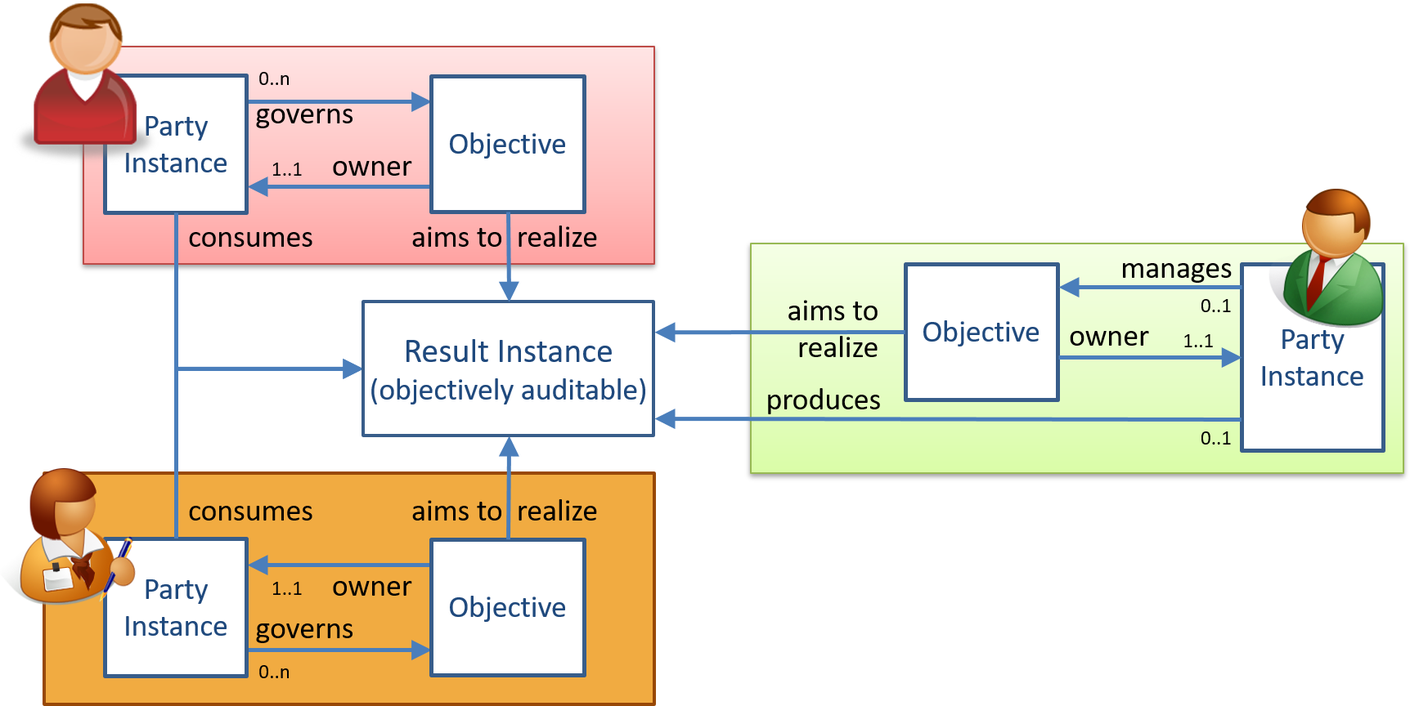
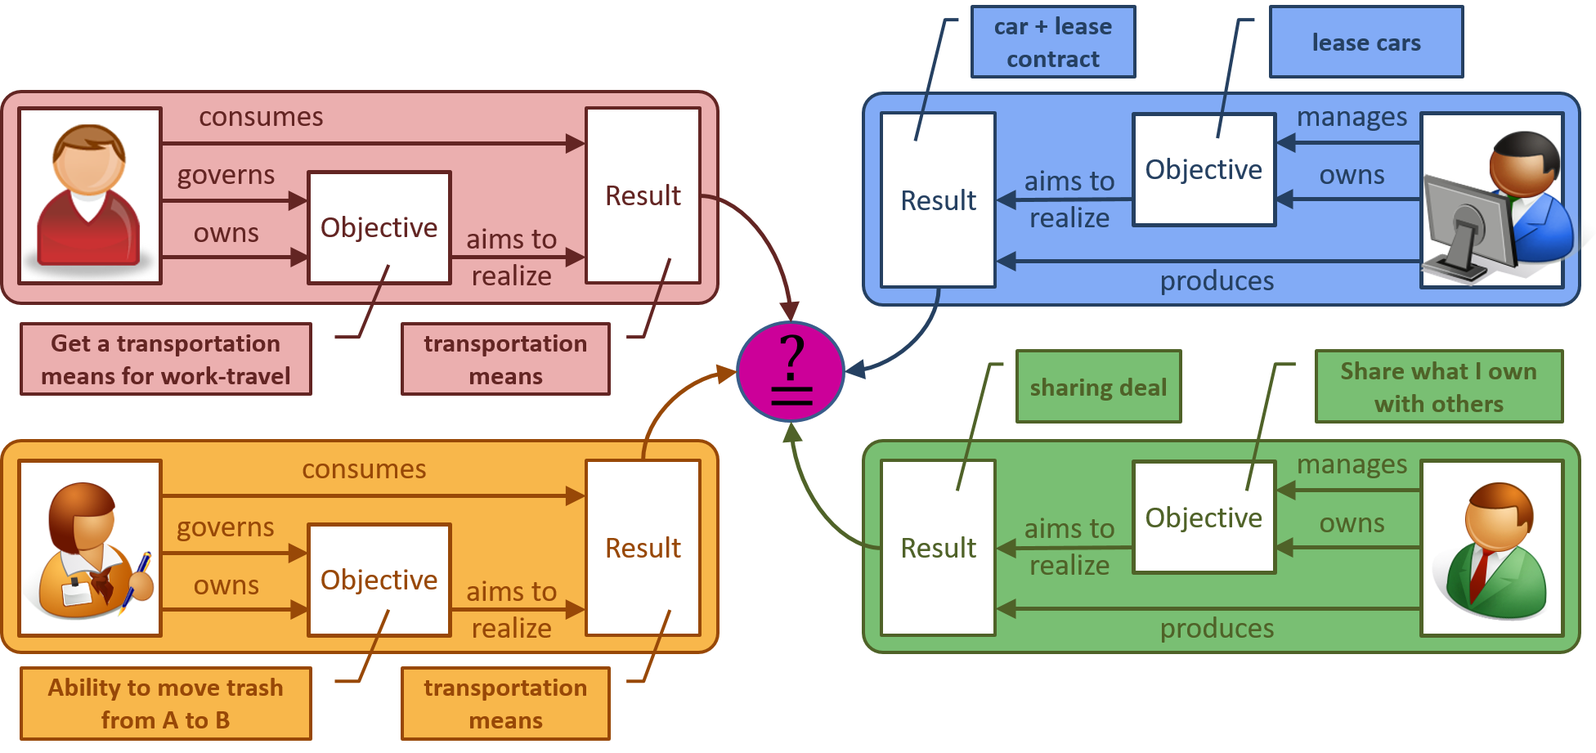
Updates on governance (minor work on terminologies)

diff --git a/docusaurus.config.js b/docusaurus.config.js
@@ -3,7 +3,7 @@ module.exports = {
   title: 'eSSIF-Lab',
   tagline: 'eSSIF-Lab Framework',
   url: 'https://essif-lab.github.io',
-  baseUrl: '/framework/',
+  baseUrl: process.env.STAGING && process.env.STAGING === 'true' ? '/framework/' : '/',
   favicon: 'images/favicon.ico',
   organizationName: 'essif-lab',
   projectName: 'framework',

diff --git a/docs/terms/pattern-governance-and-management.md b/docs/terms/pattern-governance-and-management.md
@@ -3,7 +3,7 @@ id: pattern-governance-and-management
 title: "Governance and Management"
 scopeid: essifLab
 type: pattern
-typeid: manage-and-govern
+typeid: governance-and-management
 stage: draft
 hoverText: "The Governance and Management pattern explains how Parties organize that their Objectives are realized, either by doing the associated work themselves, or by arranging for other Parties to do that."
 date: 20210830
@@ -12,11 +12,11 @@ date: 20210830
 import useBaseUrl from '@docusaurus/useBaseUrl'
 
 ### Purpose
-The **Governance and Management pattern** captures the concepts and relations that explain how %%parties|party%% organize that %%their|owner%% %%objectives|objective%% are realized, either by doing the associated work themselves, or by arranging for other %%parties|party%% to do that. The contribution of this pattern is to show how this is done, based on the idea that every %%objective|objective%% has a single %%party|party%% that %%owns|owner%% the %%objective|objective%%.
+The **Governance and Management pattern** captures the concepts and relations that explain how %%parties|party%% organize that %%their|owner%% %%objectives|objective%% are realized, either by doing the associated work themselves (%%management|management%%), or by arranging for other %%parties|party%% to do that. The contribution of this pattern is to show how this is done, based on the idea that every %%objective|objective%% has a single %%party|party%% that %%owns|owner%% the %%objective|objective%%.
 
 ### Introduction
 
-Whether or not an %%objective|objective%% is realized can be seen by the status of the associated results, as is explained [there](objective). The following figure is a recap of the %%objective|objective%%-concept (using the usual [notations and conventions](../notations-and-conventions#pattern-diagram-notations)):
+Whether or not an %%objective|objective%% is realized can be seen by the status of the associated results, as is explained %%there|objective%%. The following figure is a recap of the %%objective|objective%%-concept (using the usual [notations and conventions](../notations-and-conventions#pattern-diagram-notations)):
 
 <img
   alt="A Party's Objectives"
@@ -25,33 +25,39 @@ Whether or not an %%objective|objective%% is realized can be seen by the status 
 
 *Figure 1. Parties and their %%objectives|objective%%.*
 
-Note that there are two 'sides' to each objective (and their results):
+The core property of this model is that every %%objective|objective%% has precisely one %%owner|owner%%, which is the %%party|party%% that pursues the realization of the assocated results, from one (or both) of the two following perspectives:
 
-1. the _**production**_ side. Here, it is important that the budgets and other resources are planned, and made available _to produce the results_. This includes the specification of timelines (deadlines) for the production, as well as the properties and other characteristics (security, quality, sustainability, etc.) of what is actually being produced/maintained. It also deals with making the tools and %%policies|policy%% (e.g. working instructions) available for doing all this. We will use the term 'management' to refer to these %%activities|action%%, and the term '%%manager|management%%' to refer to the role of a %%party|party%% that performs such activities. Hence, developing performance indicators, i.e. gauges that measure how well the resources are spent in this production/maintenancd work are also part of this.
+1. the _**production**_, _**supply**_, or _**%%management|management%%**_ perspective. This is the perspective in which the %%owner|owner%% of the %%objective|objective%% will itself be %%managing|management%% the creation (or maintenance) of the results associated with the %%objective|objective%%. This entails the creation of (product) specifictions and %%working instructions|policy%%, organizing that budgets and other production resources become available and are planned, and everything else to ensure the results will be ready to be provided to parties that will actually use them. This may include developing performance indicators, i.e. gauges that measure how well the resources are spent in this production/maintenance work, which may help managers to do their work. We will use the term '%%management|management%%' to refer to these %%activities|action%%, and the term '%%manager|management%%' to refer to the role of a %%party|party%% that performs such activities.
 
-2. the _**consumption**_ side. Here, it is important that the budgets and other resources are planned, and made available _to (obtain and to) actually use the results_. This includes the specification of timelines (deadlines) for the results to become available, as well as the properties and other characteristics (security, quality, sustainability, etc.) that results must have in order to make them effective ('fit for purpose' - fit to be used as intended by the consuming %%party|party%%). We will use the term '%%governance|governance%%' to refer to these %%activities|action%%, and the term '%%governor|governance%%' to refer to the role of a %%party|party%% that performs such activities. Hence, developing effectiveness indicators, i.e. gauges that measure how 'fit' the results are to be used/consumed for the intended purposes, are also part of this %%governance|governance%%.
+2. the _**consumption**_, _**demand**_, or _**%%governance|governance%%**_ perspective. This is the perspective in which the %%owner|owner%% of the %%objective|objective%% wants to actually use the results associated with the %%objective|objective%%. This entails specifying the kinds of results as well as criteria that such results must satisfy (or are nice to have satisfied) in order to be fit for the purpose(s) that the %%owner|owner%% wants to use them for. Such criteria may pertain to timelines (deadlines), security, quality, sustainability, etc. This may include developing 'effectiveness indicators', i.e. gauges that measure how 'fit' the results are to be used/consumed for the intended purposes, are also part of this %%governance|governance%%. We will use the term '%%governance|governance%%' to refer to these %%activities|action%%, and the term '%%governor|governance%%' to refer to the role of a %%party|party%% that performs such activities.
 
-A %%party|party%% that %%owns|owner%% an %%objective|objective%% gets to decide whether he will do the production side, the consumption side, or both. The easiest is if the party chooses to do both, thus not only creating/maintaining specific results, but also actually using them. What makes this easy is that coordination between 'supply' (the production side) and 'demand' (the consumption side) is done within one %%knowledge|knowledge%%, i.e. the %%knowledge|knowledge%% of the %%party|party%% that %%owns|owner%% the %%objective|objective%%. Coordination between budgets, timelines, the characteristics of the results, etc., are much easier when all this gets to be decided by a single %%party|party%%.
+### Governance and Management
 
-### Managing and Governing
-
-The following figure illustrates the situation where this is not the case (using the usual [notations and conventions](../notations-and-conventions#pattern-diagram-notations)):
+When a %%party|party%% both %%manages|management%% and %%governs|governance%% an %%objective|objective%%, it is in full control of the production and the usability of the associated results. This is easy to do when compared to the situation in which a %%party|party%% either %%manages|management%% or %%governs|governance%% its %%objective|objective%%, but not both. This governance and management pattern focuses on the latter situation. The following figure illustrates this situation:
 
 <img
-  alt="managing and governing"
+  alt="governance and management"
   src={useBaseUrl('images/essif-lab-governance-and-management.png')}
 />
 
-*Figure 1. Managing and governing objectives.*
+*Figure 1. Governing and Managing objectives.*
 
-When a %%party|party%% decides to outsource the production side, he must then find another %%party|party%% to do that for him. We say that the %%objective|objective%%, the results of which are to be realized by that other party, is an 'expectation' of the first %%party|party%%. So an 'expectation' is an %%objective|objective%% that is %%owned|owned%% by a %%party|party%% that does not itself realizes the associated results. Assuming that every %%objective|objective%% is to be meaningful to its %%owner|owner%%, we conclude that this %%party|party%% is (one of) the consumer(s) of these results, and hence will %%govern|governance%% this/its %%objective|objective%%, but not manage it. This %%party|party%% may find it useful to communicate its needs (e.g. the timelines/deadlines, the characteristics that makes the results 'fit-for-purpose', etc.) to the %%party|party%% that it requests to produce these results, as this makes it easier for that party to do so.
+The figure shows four %%parties|party%%, distinguished by color - let's call them Red, Yellow, Blue and Green. We assume that each party %%owns|owner%% multiple %%objectives|objective%%, but in the figure we only show a single one, each of which with a description that %%identifies|identify%% that %%objective|objective%% from the set of %%objectives|objective%% of each %%party|party%%. The figure also shows one of the results associated with each of these %%objectives|objective%%, again phrased such that the %%objective|objective%% %%owner|owner%% knows what this really %%means|semantics%%. So, Red %%governs|governance%% an %%objective|objective%% that it describes as "Get a transportation means for work-travel". The associated result "transportation means" then doesn't come as a surprise.
 
-If such a %%party|party%% accepts the request (to realize some results), it will have created an %%objective|objective%% (that it %%owns|owner%% itself), that is associated with the results that it is going to produce, and the associated specification of timelines, characteristics etc. A %%party|party%% may also decide to realize some results without any explicit request - and even if it does not intend to use/consume them itself. We will refer to an %%objective|objective%%, the results of which are realized by its %%owner|owner%%, as an 'obligation' of that %%owner|owner%%.
+Red, who %%governs|governance%% its %%objective|objective%% can realize the result by 'scouring the market' to find a %%party|party%% that is capable and willing to provide things that Red qualifies as "transportation means" and that hence constitute the result it wants. Note that Yellow also needs to realize a result "transportation means", in order to realize her objective "Ability to move trash from A to B". Both Blue and Green produce results, i.e. a "car + lease contract" and a "sharing deal" respectively.
 
-The main contribution of this pattern lies in
-- the observation that in any case where the consumer/user of a result (product/service) and the producer/maintainer thereof are different %%parties|party%%, each of them have their %%own|owner%% %%objective|objective%% that is associated with a result (specification), and
-- the consequence thereof that, since such %%objectives|objective%% are part of a different %%knowledge|knowledge%%, one must not assume that they are the same.
+The essence of this figure is to show that %%parties|party%% that consume a result and %%parties|party%% that produce a result have a matching issue.
 
-As a consequence, %%parties|party%% that %%govern|governance%% an %%objective|objective%% of theirs but do not manage it, should ensure that the results that the producer is realizing are in fact fit for purpose. Conversely, %%parties|party%% that manage an %%objective|objective%% of theirs but do not %%govern|governance%% it, should ensure they know which other %%parties|party%% will use the results, and what makes them fit for (their) purposes.
+From the perspective of the consuming party, the result produced by a producing party must qualify as a result that it needs. %%Governing|governance%% an %%objective|objective%% is basically specifying a result in such a way that it is fit for purpose, i.e. realizes the objective, AND finding a result that is produced byt some %%party|party%% that qualifies as such, and that it can obtain. For Red (and Yellow) this means that they need to determine whether or not the results that Blue and Green produce qualify, and engage with either if that is the case. If not, they must either find other producers whose results do match, or they have to find an alternative result for realizing their objectives.
 
-The processes for governing and/or managing of objectives can be controlled by deploying a suitable %%control process|control-process%%.
+From the perspective of the producing party, producing a result is only meaningful if it is actually used. %%Managing|management%% an %%objective|objective%% is basically producing a result in such a way that there is (at least) one party that needs it. This is not only about producing things, but also about finding out what makes the produced result fit for the (various) purposes of (potential) consuming parties.
+
+### Matching
+
+Matching (of (the results of) %%objectives|objective%%) is the process in which a producer and consumer interact to establish whether or not a produced result (of the producing party) qualifies as a consumeable result (of the consuming party).
+
+This matching process can take many different forms. One is that a producing party advertises the kinds of results it produces in an attempt to attract consuming parties that qualify them as something they can use/consume. Another one is that a consuming party can tender for a result it needs, in an attempt to attract producing parties to produce such a result. And then there is the ad-hoc way, where two parties meet and find out by chance that one produces results that the other needs.
+
+The matching process can be a one-off, which is the case e.g. when buying a product. However, it can also be a continous process, e.g., in the case where a service is purchased. In the latter case, matching may include monitoring the service levels that the service provider realizes to ensure the service still qualifies as a result that realizes the consumers' objective.
+
+Matching is a process that can be readily observed in practice.

diff --git a/docs/terms/pattern-terminology.md b/docs/terms/pattern-terminology.md
@@ -11,8 +11,41 @@ date: 20210601
 
 import useBaseUrl from '@docusaurus/useBaseUrl'
 
-:::info Editor's note
-This is work that is being envisaged.
-:::
-
+## Purpose
 The idea here is to describe how terms are scoped ('namespaces' is the term used by SW-engineers), how parties govern such scopes/namespaces, and that if you use criteria to define/specify terms, people can test if they have the same understanding of a term by making sure that everyone reaches the same conclusions as they evaluate such criteria in various relevant use-cases.
+
+The prime objective of working with a %%terminology|terminology%% is to enable individual members of a %%community|community%% to understand the words and phrases that are used by its members ***in the same, single meaning***. This is to say that ***the differences in the individual understandings of words or phrases by different members of the same %%community|community%% do not pose any problems as they collaborate to serve their shared interests***.
+
+This suggests that (members of) a %%community|community%% need the ability and means to (a) establish and maintain (i.e.: %%own|owner%%) their own %%terminology|terminology%%, and (b) to ensure it is fit for the purpose of eliminating such misunderstandings. More concretely, they need the ability and means to create, maintain and improve the %%definitions|definition%% that link %%terms|term%% with the %%concepts|concept%%/meanings that they agree are relevant for their collaboration, and perhaps also to document the ways of thinking (%%mental models|pattern%%) that are crucial to their work.
+
+Once a %%community|community%% has its %%terminology|terminology%% in place, may want to establish an associated  %%glossary|glossary%% that serves as the authoritive reference for the (crucial) %%terms|term%% used by its members. This %%glossary|glossary%% is also a valuable reference document for a non-community member, as it helps him/her to (better) understand the (verbal or written) communications authored by that %%community|community%%, i.e. it helps to 'map', or 'translate' the terms of that %%community|community%% to words or phrases that the person uses itself, which is prerequisite for effectively engaging with that %%community|community%%.
+
+The secondary objective of working with a %%terminology|terminology%% is to enable members of %%ecosystems|ecosystem%% to establish
+
+- a set of %%terms|term%% that have a 'good definition' (as defined at the end of [this document](https://www.researchgate.net/publication/352560909_on_terminology_and_the_resolution_of_related_issues), which basically means that ***two arbitrary people that use that definition stand a very good chance of having the same individual understanding of what is meant***.
+- a set of %%mental models|pattern%% that describe relations and constraints between sets of such terms, thus providing the bases for ***arbitrary sets of people to have the same understanding of specific ways of thinking about a set of concepts***.
+
+Such %%terminologies|terminology%% and %%mental models|pattern%% differ from those created for/by %%communities|community%% in the sense that it is basically just a repository of words and phrases that %%communities|community%% may adopt within their own %%scopes|scope%%. They have no other authority than what they can derive from being used in/by %%communities|community%%.
+
+The benefit of creating and maintaining such %%terminologies|terminology%% and %%mental models|pattern%% lies in the fact that they can be developed with less of a bias of developers than if they were developed in a %%community|community%% (that is there to serve its own interests). As such, they may play an important role as different %%communities|community%% seek to establish a languate for cooperating with one another.
+
+### Introduction
+
+This pattern has two basic parts:
+
+1. the %%management|management%%-related part. This part consists of a %%community|community%% that %%owns|owner%% its particular set of %%objectives|objective%% which exist for establishing cooperation between its members, and for which it needs to establish and maintain a %%terminology|terminology%%. 
+
+2. the terminology-related part. This is where %%concepts|concept%%, %%definitions|definition%%, %%terms|term%%, %%glossaries|glossary%% etc. live. This part is what one needs to create tools/support for managing and maintaining a %%terminology|terminology%%.
+
+
+### Formalized model
+Here is a visual representation of this pattern, using the following [notations and conventions](../notations-and-conventions#pattern-diagram-notations):
+
+<img
+  alt="Conceptual model of the 'Duties-and-rights' pattern"
+  src={useBaseUrl('images/patterns/pattern-duties-and-rights.png')}
+/>
+
+:::info Editor's note
+TNO to provide further introductorty texts
+:::

diff --git a/docs/essifLab-fw-bus-arch.md b/docs/essifLab-fw-bus-arch.md
@@ -263,7 +263,7 @@ In order to make the %%holder|holder%% component work, a %%holder policy|holder-
 
 The purpose of the %%data discloser|data-discloser%% component is to state the (various, sometimes intermediary) results of %%transactions|transaction%%, by collecting data from the Business Data Stores, and creating a set of (related) %%statements/claims|assertion%% that can subsequently be issued to other %%parties|party%%. A special kind of result is the (provisioning of) a %%credential|credential%% that its %%principal|principal%% already has created.
 
-Typically, and at any point in time, %%parties|party%% are capable of expressing %%statements|assertion%% about %%entities|entity%% that they know to exist. They could express %%statements|assertion%% about individuals, about themselves, the state of %%transactions|transaction%%, and so on. We will use the term '**%subject% (of a %%statement|assertion%% of a %%party|party%%)**' to refer to the %%entity|entity%% that this %%party|party%% knows to exist, and about whom/which the %%statement|assertion%% has been made.
+Typically, and at any point in time, %%parties|party%% are capable of expressing %%statements|assertion%% about %%entities|entity%% that they know to exist. They could express %%statements|assertion%% about individuals, about themselves, the state of %%transactions|transaction%%, and so on. We will use the term '**%%subject|subject%%% (of a %%statement|assertion%% of a %%party|party%%)**' to refer to the %%entity|entity%% that this %%party|party%% knows to exist, and about whom/which the %%statement|assertion%% has been made.
 
 We will use the term '**subject-id (of a %%statement|assertion%% of a %%party|party%%)**' to refer to the representation that this %%party|party%% has chosen to use for referring to the %%subject|subject%% in said %%statement|assertion%%. A subject-id must have the property of being an %%identifier|identifier%% within every administrative context that this %%party|party%% uses. It need not be humanly interpretable (and preferably is not).
 
@@ -405,7 +405,7 @@ Conversely, the citizen might request the (alleged) municipality to provide %%cr
 
 ### 5.3.  Stating Transactions - Issuing Credentials
 
-In the eSSIF-Lab context, we take '%%credential|credential%%' to mean any (set of coherent) %%statement(s)|assertion%% about any (one or more) %subject%(s) that a single %%party|party%% has issued with proof of provenance (i.e. anyone else can determine the identity of that %%issuer|issuer%%) and a proof of integrity (i.e. anyone can determine whether or not the content of the %%credential|credential%% has been changed/tampered with since it was issued). From this, it follows that any %%party|party%% can issue any kind of %%credential|credential%% for any %%entity|entity%% that it knows to exist. A %%credential|credential%% does not need to be about a person or an %%organization|organization%%, but it can also refer to an order, a delivery, a seat-reservation, a prescription, etc.
+In the eSSIF-Lab context, we take '%%credential|credential%%' to mean any (set of coherent) %%statement(s)|assertion%% about any (one or more) %%subject|subject%%(s) that a single %%party|party%% has issued with proof of provenance (i.e. anyone else can determine the identity of that %%issuer|issuer%%) and a proof of integrity (i.e. anyone can determine whether or not the content of the %%credential|credential%% has been changed/tampered with since it was issued). From this, it follows that any %%party|party%% can issue any kind of %%credential|credential%% for any %%entity|entity%% that it knows to exist. A %%credential|credential%% does not need to be about a person or an %%organization|organization%%, but it can also refer to an order, a delivery, a seat-reservation, a prescription, etc.
 
 We foresee two ways in which %%credentials|credential%% can be issued:
 

diff --git a/docs/essifLab-fw-func-arch.md b/docs/essifLab-fw-func-arch.md
@@ -224,7 +224,7 @@ In order to make the %%holder|holder%% component work, a %%holder policy|holder-
 
 The purpose of the %%data discloser|data-discloser%% component is to state the (various, sometimes intermediary) results of %%transactions|transaction%%, by collecting data from the Business Data Stores, and creating a set of (related) %%statements/claims|assertion%% that can subsequently be issued to other %%parties|party%%. A special kind of result is the (provisioning of) a %%credential|credential%% that its %%principal|principal%% already has created.
 
-Typically, and at any point in time, %%parties|party%% are capable of expressing %%statements|assertion%% about %%entities|entity%% that they know to exist. They could express %%statements|assertion%% about individuals, about themselves, the state of %%transactions|transaction%%, and so on. We will use the term '**%subject% (of a %%statement|assertion%% of a %%party|party%%)**' to refer to the %%entity|entity%% that this %%party|party%% knows to exist, and about whom/which the %%statement|assertion%% has been made.
+Typically, and at any point in time, %%parties|party%% are capable of expressing %%statements|assertion%% about %%entities|entity%% that they know to exist. They could express %%statements|assertion%% about individuals, about themselves, the state of %%transactions|transaction%%, and so on. We will use the term '**%%subject|subject%% (of a %%statement|assertion%% of a %%party|party%%)**' to refer to the %%entity|entity%% that this %%party|party%% knows to exist, and about whom/which the %%statement|assertion%% has been made.
 
 We will use the term '**subject-id (of a %%statement|assertion%% of a %%party|party%%)**' to refer to the representation that this %%party|party%% has chosen to use for referring to the %%subject|subject%% in said %%statement|assertion%%. A subject-id must have the property of being an %%identifier|identifier%% within every administrative context that this %%party|party%% uses. It need not be humanly interpretable (and preferably is not).
 
@@ -366,7 +366,7 @@ Conversely, the citizen might request the (alleged) municipality to provide %%cr
 
 ### 5.3.  Stating Transactions - Issuing Credentials
 
-In the eSSIF-Lab context, we take '%%credential|credential%%' to mean any (set of coherent) %%statement(s)|assertion%% about any (one or more) %subject%(s) that a single %%party|party%% has issued with proof of provenance (i.e. anyone else can determine the identity of that %%issuer|issuer%%) and a proof of integrity (i.e. anyone can determine whether or not the content of the %%credential|credential%% has been changed/tampered with since it was issued). From this, it follows that any %%party|party%% can issue any kind of %%credential|credential%% for any %%entity|entity%% that it knows to exist. A %%credential|credential%% does not need to be about a person or an %%organization|organization%%, but it can also refer to an order, a delivery, a seat-reservation, a prescription, etc.
+In the eSSIF-Lab context, we take '%%credential|credential%%' to mean any (set of coherent) %%statement(s)|assertion%% about any (one or more) %%subject|subject%%(s) that a single %%party|party%% has issued with proof of provenance (i.e. anyone else can determine the identity of that %%issuer|issuer%%) and a proof of integrity (i.e. anyone can determine whether or not the content of the %%credential|credential%% has been changed/tampered with since it was issued). From this, it follows that any %%party|party%% can issue any kind of %%credential|credential%% for any %%entity|entity%% that it knows to exist. A %%credential|credential%% does not need to be about a person or an %%organization|organization%%, but it can also refer to an order, a delivery, a seat-reservation, a prescription, etc.
 
 We foresee two ways in which %%credentials|credential%% can be issued:
 

diff --git a/docs/essifLab-fw.md b/docs/essifLab-fw.md
@@ -261,7 +261,7 @@ In order to make the %%holder|holder%% component work, a %%holder policy|holder-
 
 The purpose of the %%data discloser|data-discloser%% component is to state the (various, sometimes intermediary) results of %%transactions|transaction%%, by collecting data from the Business Data Stores, and creating a set of (related) %%statements/claims|assertion%% that can subsequently be issued to other %%parties|party%%. A special kind of result is the (provisioning of) a %%credential|credential%% that its %%principal|principal%% already has created.
 
-Typically, and at any point in time, %%parties|party%% are capable of expressing %%statements|assertion%% about %%entities|entity%% that they know to exist. They could express %%statements|assertion%% about individuals, about themselves, the state of %%transactions|transaction%%, and so on. We will use the term '**%subject% (of a %%statement|assertion%% of a %%party|party%%)**' to refer to the %%entity|entity%% that this %%party|party%% knows to exist, and about whom/which the %%statement|assertion%% has been made.
+Typically, and at any point in time, %%parties|party%% are capable of expressing %%statements|assertion%% about %%entities|entity%% that they know to exist. They could express %%statements|assertion%% about individuals, about themselves, the state of %%transactions|transaction%%, and so on. We will use the term '**%%subject|subject%% (of a %%statement|assertion%% of a %%party|party%%)**' to refer to the %%entity|entity%% that this %%party|party%% knows to exist, and about whom/which the %%statement|assertion%% has been made.
 
 We will use the term '**subject-id (of a %%statement|assertion%% of a %%party|party%%)**' to refer to the representation that this %%party|party%% has chosen to use for referring to the %%subject|subject%% in said %%statement|assertion%%. A subject-id must have the property of being an %%identifier|identifier%% within every administrative context that this %%party|party%% uses. It need not be humanly interpretable (and preferably is not).
 
@@ -403,7 +403,7 @@ Conversely, the citizen might request the (alleged) municipality to provide %%cr
 
 ### 5.3.  Stating Transactions - Issuing Credentials
 
-In the eSSIF-Lab context, we take '%%credential|credential%%' to mean any (set of coherent) %%statement(s)|assertion%% about any (one or more) %subject%(s) that a single %%party|party%% has issued with proof of provenance (i.e. anyone else can determine the identity of that %%issuer|issuer%%) and a proof of integrity (i.e. anyone can determine whether or not the content of the %%credential|credential%% has been changed/tampered with since it was issued). From this, it follows that any %%party|party%% can issue any kind of %%credential|credential%% for any %%entity|entity%% that it knows to exist. A %%credential|credential%% does not need to be about a person or an %%organization|organization%%, but it can also refer to an order, a delivery, a seat-reservation, a prescription, etc.
+In the eSSIF-Lab context, we take '%%credential|credential%%' to mean any (set of coherent) %%statement(s)|assertion%% about any (one or more) %%subject|subject%%(s) that a single %%party|party%% has issued with proof of provenance (i.e. anyone else can determine the identity of that %%issuer|issuer%%) and a proof of integrity (i.e. anyone can determine whether or not the content of the %%credential|credential%% has been changed/tampered with since it was issued). From this, it follows that any %%party|party%% can issue any kind of %%credential|credential%% for any %%entity|entity%% that it knows to exist. A %%credential|credential%% does not need to be about a person or an %%organization|organization%%, but it can also refer to an order, a delivery, a seat-reservation, a prescription, etc.
 
 We foresee two ways in which %%credentials|credential%% can be issued:
 

diff --git a/docs/terms/transaction-data-discloser.md b/docs/terms/transaction-data-discloser.md
@@ -27,7 +27,7 @@ The purpose of the Transaction Data Discloser component is to state the (various
 A **Transaction Data Discloser** is a component in the [eSSIF-Lab functional architecture](../essifLab-fw-func-arch) that is capable of stating (various, sometimes intermediary) results of transactions, by collecting data from the Business Data Stores, and creating a set of (related) statements/claims that can subsequently be issued to other %%Parties|party%%.
 
 ### Functionality
-Typically, and at any point in time, %%parties|party%% are capable of expressing statements about entities that they know to exist. They could express statements about individuals, about themselves, the state of transactions, and so on. We will use the term '**%subject% (of a statement of a %%party|party%%)**' to refer to the entity that this %%party|party%% knows to exist, and about whom/which the statement has been made.
+Typically, and at any point in time, %%parties|party%% are capable of expressing statements about entities that they know to exist. They could express statements about individuals, about themselves, the state of transactions, and so on. We will use the term '**%%subject|subject%% (of a statement of a %%party|party%%)**' to refer to the entity that this %%party|party%% knows to exist, and about whom/which the statement has been made.
 
 We will use the term '**subject-id (of a statement of a %%party|party%%)**' to refer to the representation that this %%party|party%% has chosen to use for referring to the %%subject|subject%% in said statement. A subject-id must have the property of being an identifier within every administrative context that this %%party|party%% uses. It need not be humanly interpretable (and preferably is not).
 

diff --git a/docs/terms/data-discloser.md b/docs/terms/data-discloser.md
@@ -27,7 +27,7 @@ The purpose of the Data Discloser component is to state the (various, sometimes 
 A **Data Discloser** is a component in the [eSSIF-Lab functional architecture](../essifLab-fw-func-arch) that is capable of stating (various, sometimes intermediary) results of transactions, by collecting data from the Business Data Stores, and creating a set of (related) statements/claims that can subsequently be issued to other %%Parties|party%%.
 
 ### Functionality
-Typically, and at any point in time, Parties are capable of expressing statements about entities that they know to exist. They could express statements about individuals, about themselves, the state of transactions, and so on. We will use the term '**%subject% (of a statement of a Party)**' to refer to the entity that this Party knows to exist, and about whom/which the statement has been made.
+Typically, and at any point in time, Parties are capable of expressing statements about entities that they know to exist. They could express statements about individuals, about themselves, the state of transactions, and so on. We will use the term '**%%subject|subject%% (of a statement of a Party)**' to refer to the entity that this Party knows to exist, and about whom/which the statement has been made.
 
 We will use the term '**subject-id (of a statement of a Party)**' to refer to the representation that this Party has chosen to use for referring to the %%subject|subject%% in said statement. A subject-id must have the property of being an identifier within every administrative context that this Party uses. It need not be humanly interpretable (and preferably is not).
 

diff --git a/docs/terms/pattern-identification.md b/docs/terms/pattern-identification.md
@@ -27,7 +27,7 @@ Here, we discuss %%identification|identify%% in a way that we expect to be usefu
 
 First, identification of an %%entity|entity%% is similar to recognizing that %%entity|entity%%. A bit more formal: given an %%entity|entity%% (or digital or non-digital %%data|data%% about that %%entity|entity%% that comes from outside the %%knowledge|knowledge%% of a %%party|party%%), identification is determining whether or not the %%party|party%% %%owns|owner%% a %%partial identity|partial-identity%% of which that %%entity|entity%% is the %%subject|subject%%. When the entity isn't recognized (identified), then a %%partial identity|partial-identity%% may be created that has this %%entity|entity%% as its %%subject|subject%%.
 
-Second, identification of an %%entity|entity%% is similar to pointing/singling out the %%entity|entity%%. More formal: given a %%partial identity|partial-identity%% that is %%owned|owned%% by a %%party|party%% and a specific context where a set of %%entities|entity%% are present, identification is determining whether or not the %%subject|subject%% of that partial identity% is in that set, and if so, which of them it is.
+Second, identification of an %%entity|entity%% is similar to pointing/singling out the %%entity|entity%%. More formal: given a %%partial identity|partial-identity%% that is %%owned|owned%% by a %%party|party%% and a specific context where a set of %%entities|entity%% are present, identification is determining whether or not the %%subject|subject%% of that partial identity%% is in that set, and if so, which of them it is.
 
 We will elaborate on both.
 

diff --git a/docs/terms/management.md b/docs/terms/management.md
@@ -16,7 +16,7 @@ date: 20210830
 Management is about planning and organizing the budgets and other resources so that they become (and/or remain) available _to produce the results_ of the associated %%objectives|objective%%. It includes the specification of timelines (deadlines) for the production, as well as the properties and other characteristics (security, quality, sustainability, etc.) of what is actually being produced/maintained. It also deals with making the tools and %%policies|policy%% (e.g. working instructions) available for doing all this.
 In order to keep tabs on the efficiency of the management process, performance indicators may be developed, i.e. gauges that measure how well the resources are spent in this production/maintenancd work are also part of this.
 
-The management of a set of %%objectives|objective%% can be implemented as a %%control process|control-process%. The control objectives that are needed by this control process would typically come from a %%policy|policy%% of the owner of the %%objectives|objective%% that are managed.
+The management of a set of %%objectives|objective%% can be implemented as a %%control process|control-process%%. The control objectives that are needed by this control process would typically come from a %%policy|policy%% of the owner of the %%objectives|objective%% that are managed.
 
 We make a clear distinction between governance and management, which is explained in the %%governance and management pattern|pattern-governance-and-management%%.
 

diff --git a/docs/terms/community.md b/docs/terms/community.md
@@ -11,7 +11,9 @@ date: 20210601
 ---
 
 ### Short Description
-A Community is an %%organization|organization%% that seeks to facilitate the cooperation between at least two %%parties|party%% (referred to as its 'members') based on interests that these %%parties|party%% share as each of them seeks to realize its own, individual %%objectives|objective%%.
+A Community is an %%organization|organization%% that seeks to facilitate the cooperation between at least two %%parties|party%% (referred to as its 'members') based on interests that these %%parties|party%% share as each of them seeks to realize its own, individual %%objectives|objective%%. Facilitating such a cooperation can be expressed in terms of %%objectives|objective%% that each of its members contributes to realizing.
+
+Note that a single set of %%parties|party%% can seek different cooperations with one another, with different associated sets of %%objectives|objective%%. They are then different %%communities|community%% (even though they have the same members), because it is conceivable that another %%party|party%% will join one, but not both of them, or one member will leave one, but not both %%communities|community%%.
 
 A community is a specialization of the more generic %%ecosystem|ecosystem%% in the sense that it is an %%organization|organization%% (which an ecosystem need not be) that (actively) facilitates the cooperation between its members, whereas in non-community ecosystems, this cooperation is not actively organized.
 

diff --git a/docs/essifLab-pattern-list.md b/docs/essifLab-pattern-list.md
@@ -38,8 +38,8 @@ The [eSSIF-Lab Identity Pattern](./terms/pattern-identity)
 - shows that it is comprised of %%partial identities|partial-identity%% that are the actual artifacts we need to focus on in %%SSI contexts|self-sovereign-identity%%, and
 - shows how this relates to (attributes in) %%credentials|credential%%.
 
-### [Managing and Governing](./terms/pattern-governance-and-management)
-The envisaged [Managing and Governing Pattern](./terms/pattern-governance-and-management) will explain how %%parties|party%% organize that %%their|owner%% %%objectives|objective%% are realized, either by doing the associated work themselves, or by arranging for other %%parties|party%% to do that. The contribution of this pattern is to show how this is done, based on the idea that every %%objective|objective%% has a single %%party|party%% that %%owns|owner%% the %%objective|objective%%.
+### [Governance and Management](./terms/pattern-governance-and-management)
+The envisaged [Governance and Management Pattern](./terms/pattern-governance-and-management) will explain how %%parties|party%% organize that %%their|owner%% %%objectives|objective%% are realized, either by doing the associated work themselves, or by arranging for other %%parties|party%% to do that. The contribution of this pattern is to show how this is done, based on the idea that every %%objective|objective%% has a single %%party|party%% that %%owns|owner%% the %%objective|objective%%.
 
 ## Envisaged Models
 
